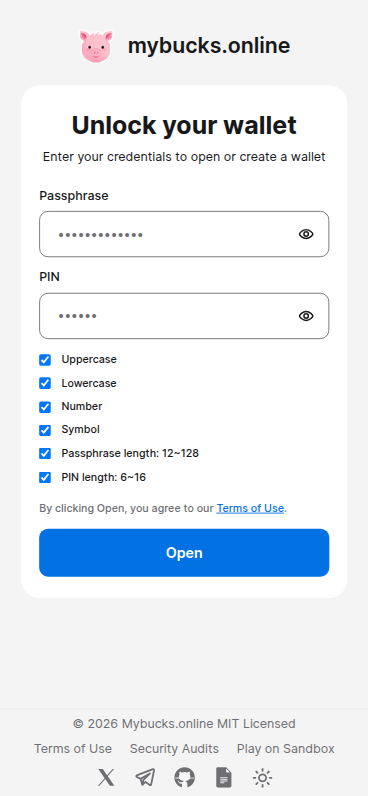
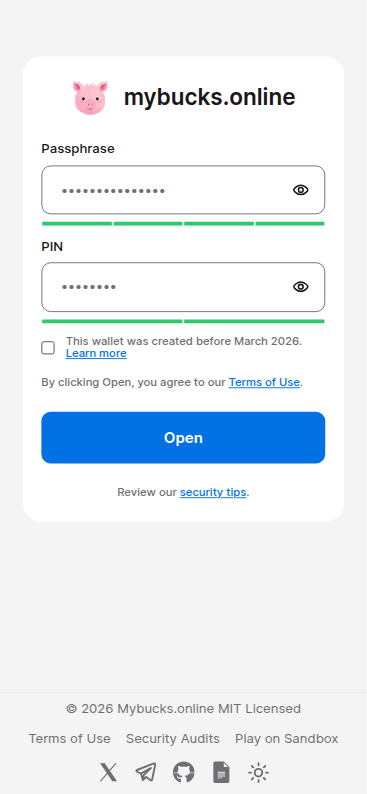
Add key-gen mode selector between legacy and default [critical] (#47)
* add legacy-mode select checkbox at unlock screen

* update @mybucks.online/core v2 ***

* update unlock screen to reflect legacy-flag

* add legacy indicator in Menu

* upgrade core into 2.1.0***

* update legacy-checkbox after parsing URL

* update vite.config to fix lint error

* update README

* update screenshot

* update README

Changed region(s): [[0.0899, 0.0302, 0.8992, 0.7254], [0.0899, 0.8766, 0.9292, 0.9975]]

diff --git a/src/pages/Signin/index.jsx b/src/pages/Signin/index.jsx
@@ -130,6 +130,31 @@ const ToggleButton = styled.button`
   }
 `;
 
+const LegacyWalletCheckboxWrapper = styled.div`
+  display: flex;
+  align-items: center;
+  gap: ${({ theme }) => theme.sizes.xs};
+  margin-bottom: ${({ theme }) => theme.sizes.base};
+
+  input[type="checkbox"] {
+    width: 1rem;
+    height: 1rem;
+    accent-color: ${({ theme }) => theme.colors.primary};
+    cursor: pointer;
+  }
+
+  label {
+    font-size: ${({ theme }) => theme.sizes.xs};
+    font-weight: ${({ theme }) => theme.weights.regular};
+    color: ${({ theme }) => theme.colors.gray200};
+    cursor: pointer;
+    user-select: none;
+  }
+
+  a {
+    font-size: inherit;
+  }
+`;
 
 const TermsNotice = styled.p`
   text-align: left;
@@ -159,17 +184,16 @@ const SignIn = () => {
   const { setup } = useContext(StoreContext);
 
   const [passphrase, setPassphrase] = useState(
-    import.meta.env.DEV ? TEST_PASSPHRASE : ""
+    import.meta.env.DEV ? TEST_PASSPHRASE : "",
   );
-  const [pin, setPin] = useState(
-    import.meta.env.DEV ? TEST_PIN : ""
-  );
+  const [pin, setPin] = useState(import.meta.env.DEV ? TEST_PIN : "");
   const [disabled, setDisabled] = useState(false);
   const [progress, setProgress] = useState(0);
   const [showPassphrase, setShowPassphrase] = useState(false);
   const [showPin, setShowPin] = useState(false);
   const [passphraseFocused, setPassphraseFocused] = useState(false);
   const [pinFocused, setPinFocused] = useState(false);
+  const [legacySelected, setLegacySelected] = useState(false);
 
   const passphraseStrength = useMemo(() => {
     if (!passphrase) return 0;
@@ -193,12 +217,12 @@ const SignIn = () => {
       !pin ||
       passphraseStrength < 3 ||
       pinStrength < 1,
-    [passphrase, pin, disabled, passphraseStrength, pinStrength]
+    [passphrase, pin, disabled, passphraseStrength, pinStrength],
   );
 
   const unknownFact = useMemo(
     () => UNKNOWN_FACTS[Math.floor(progress / 20)],
-    [progress]
+    [progress],
   );
 
   useEffect(() => {
@@ -211,7 +235,7 @@ const SignIn = () => {
       }
 
       // parse passphrase, PIN, network name from "secret" param
-      const [pphrase, pn, nn] = parseToken(secret);
+      const [pphrase, pn, nn, lgcy] = parseToken(secret);
       // clear URL params immediately so the secret is not left in the address bar
       clearQueryParams();
 
@@ -226,10 +250,14 @@ const SignIn = () => {
 
       // open wallet
       setDisabled(true);
-      const hash = await generateHash(pphrase, pn, (p) =>
-        setProgress(Math.floor(p * 100))
+      setLegacySelected(lgcy);
+      const hash = await generateHash(
+        pphrase,
+        pn,
+        (p) => setProgress(Math.floor(p * 100)),
+        lgcy,
       );
-      setup(pphrase, pn, hash, network, chainId);
+      setup(pphrase, pn, lgcy, hash, network, chainId);
       setDisabled(false);
     };
 
@@ -238,10 +266,13 @@ const SignIn = () => {
 
   const onSubmit = async () => {
     setDisabled(true);
-    const hash = await generateHash(passphrase, pin, (p) =>
-      setProgress(Math.floor(p * 100))
+    const hash = await generateHash(
+      passphrase,
+      pin,
+      (p) => setProgress(Math.floor(p * 100)),
+      legacySelected,
     );
-    setup(passphrase, pin, hash);
+    setup(passphrase, pin, legacySelected, hash);
     setDisabled(false);
   };
 
@@ -284,7 +315,9 @@ const SignIn = () => {
                 type="button"
                 disabled={disabled}
                 onClick={() => setShowPassphrase(!showPassphrase)}
-                aria-label={showPassphrase ? "Hide passphrase" : "Show passphrase"}
+                aria-label={
+                  showPassphrase ? "Hide passphrase" : "Show passphrase"
+                }
               >
                 <PasswordToggleIcon
                   show={showPassphrase}
@@ -318,14 +351,32 @@ const SignIn = () => {
                 onClick={() => setShowPin(!showPin)}
                 aria-label={showPin ? "Hide PIN" : "Show PIN"}
               >
-                <PasswordToggleIcon
-                  show={showPin}
-                  focused={pinFocused}
-                />
+                <PasswordToggleIcon show={showPin} focused={pinFocused} />
               </ToggleButton>
             </PasswordInputWrapper>
             <StrengthMeter level={pinStrength} maxLevel={2} />
           </div>
+
+          <LegacyWalletCheckboxWrapper>
+            <input
+              type="checkbox"
+              id="legacy-wallet"
+              checked={legacySelected}
+              onChange={(e) => setLegacySelected(e.target.checked)}
+              disabled={disabled}
+            />
+            <label htmlFor="legacy-wallet">
+              This wallet was created before March 2026.{" "}
+              <Link
+                href="https://docs.mybucks.online/concept/security-consideration/security-deep-dive"
+                target="_blank"
+                rel="noopener noreferrer"
+                onClick={(e) => e.stopPropagation()}
+              >
+                Learn more
+              </Link>
+            </label>
+          </LegacyWalletCheckboxWrapper>
 
           <TermsNotice>
             By clicking Open, you agree to our{" "}

diff --git a/src/pages/Menu/index.jsx b/src/pages/Menu/index.jsx
@@ -8,6 +8,7 @@ import styled from "styled-components";
 import BaseButton from "@mybucks/components/Button";
 import ConfirmPinModal from "@mybucks/components/ConfirmPinModal";
 import { Box as BaseBox, Container } from "@mybucks/components/Containers";
+import Link from "@mybucks/components/Link";
 import { BackButton } from "@mybucks/components/NavButtons";
 import { H3 } from "@mybucks/components/Texts";
 import { StoreContext } from "@mybucks/contexts/Store";
@@ -64,6 +65,18 @@ const TransferLinkWarning = styled.p`
   color: ${({ theme }) => theme.colors.gray200};
   line-height: 140%;
   margin: 0 0 ${({ theme }) => theme.sizes.x2l};
+
+  a {
+    font-size: inherit;
+  }
+`;
+
+const LegacyBadge = styled.span`
+  display: inline-block;
+  font-size: ${({ theme }) => theme.sizes.xs};
+  font-weight: ${({ theme }) => theme.weights.regular};
+  color: ${({ theme }) => theme.colors.warning};
+  margin-bottom: ${({ theme }) => theme.sizes.sm};
 `;
 
 const BACKUP_CREDENTIALS = 1;
@@ -73,7 +86,7 @@ const BACKUP_TRANSFER_LINK = 3;
 const Menu = () => {
   const [confirmPin, setConfirmPin] = useState(false);
   const [nextStep, setNextStep] = useState(0);
-  const { openMenu, account, passphrase, pin, network, chainId } =
+  const { openMenu, account, passphrase, pin, network, chainId, legacy } =
     useContext(StoreContext);
 
   const backupAddress = () => {
@@ -106,9 +119,9 @@ const Menu = () => {
       toast("Private key copied into clipboard.");
     } else if (nextStep === BACKUP_TRANSFER_LINK) {
       const networkName = findNetworkNameByChainId(network, chainId);
-      const link = generateToken(passphrase, pin, networkName);
+      const link = generateToken(passphrase, pin, networkName, legacy);
       copy(
-        window.location.origin + window.location.pathname + "#wallet=" + link
+        window.location.origin + window.location.pathname + "#wallet=" + link,
       );
       toast("Wallet link copied into clipboard.");
     }
@@ -123,6 +136,7 @@ const Menu = () => {
 
         <Box>
           <Title>Account Details</Title>
+          {legacy && <LegacyBadge>Legacy wallet</LegacyBadge>}
           <QRCodeWrapper>
             <QRCodeSVG value={network + ":" + account.address} />
           </QRCodeWrapper>
@@ -140,7 +154,14 @@ const Menu = () => {
             Transfer Link
           </Button>
           <TransferLinkWarning>
-          ⚠ Anyone with the transfer-link has full access to your funds!
+            ⚠ Anyone with the transfer-link has full access to your funds!{" "}
+            <Link
+              href="https://docs.mybucks.online/user-guide/security-notice"
+              target="_blank"
+              rel="noopener noreferrer"
+            >
+              Learn more
+            </Link>
           </TransferLinkWarning>
         </Box>
       </Container>

diff --git a/src/contexts/Store.jsx b/src/contexts/Store.jsx
@@ -14,6 +14,7 @@ export const StoreContext = createContext({
   passphrase: "",
   pin: "",
   hash: "",
+  legacy: false,
   setup: () => {},
   reset: () => {},
 
@@ -52,6 +53,7 @@ const StoreProvider = ({ children }) => {
   const [passphrase, setPassphrase] = useState("");
   const [pin, setPin] = useState("");
   const [hash, setHash] = useState("");
+  const [legacy, setLegacy] = useState(false);
 
   // theme related
   const [theme, setTheme] = useState(() => {
@@ -148,6 +150,7 @@ const StoreProvider = ({ children }) => {
     setPassphrase("");
     setPin("");
     setHash("");
+    setLegacy(false);
 
     setNetwork(DEFAULT_NETWORK);
     setChainId(DEFAULT_CHAIN_ID);
@@ -165,9 +168,10 @@ const StoreProvider = ({ children }) => {
     selectToken("");
   };
 
-  const setup = (pw, pc, hsh, nw, cid) => {
+  const setup = (pw, pc, lgcy, hsh, nw, cid) => {
     setPassphrase(pw);
     setPin(pc);
+    setLegacy(lgcy);
     setHash(hsh);
 
     if (nw) {
@@ -214,6 +218,7 @@ const StoreProvider = ({ children }) => {
         passphrase,
         pin,
         hash,
+        legacy,
         reset,
         setup,
         network,

diff --git a/vite.config.js b/vite.config.js
@@ -1,7 +1,11 @@
 import react from "@vitejs/plugin-react";
 import path from "path";
+import { fileURLToPath } from "url";
 import { defineConfig } from "vite";
 import { nodePolyfills } from "vite-plugin-node-polyfills";
+
+const __filename = fileURLToPath(import.meta.url);
+const __dirname = path.dirname(__filename);
 
 // https://vitejs.dev/config/
 export default defineConfig({

diff --git a/README.md b/README.md
@@ -60,19 +60,25 @@ import { ethers } from "ethers";
 import { scrypt } from "scrypt-js";
 
 const HASH_OPTIONS = {
-  N: 32768, // CPU/memory cost parameter, 2^15
+  N: 131072, // CPU/memory cost parameter, 2^17, OWASP recommendation
   r: 8, // block size parameter
-  p: 5, // parallelization parameter
+  p: 1, // parallelization parameter
   keyLen: 64,
 };
+const KDF_DOMAIN_SEPARATOR = "mybucks.online-core.generateHash.v2";
 
-// passphrase: at least 12 characters user input, lowercase, uppercase, digits, and special characters
-// PIN: at least 6 characters
+// passphrase: at least 12 characters user input, zxcvbn score >= 3
+// PIN: at least 6 characters, zxcvbn score >= 1
 async function generatePrivateKey(passphrase, pin) {
   const salt = `${passphrase.slice(-4)}${pin}`
 
   const passwordBuffer = Buffer.from(passphrase);
-  const saltBuffer = Buffer.from(salt);
+  const encoded = abi.encode(
+    ["string", "string", "string"],
+    [KDF_DOMAIN_SEPARATOR, passphrase, pin],
+  );
+  const saltHash = ethers.keccak256(encoded);
+  const saltBuffer = Buffer.from(saltHash.slice(2), "hex");
 
   const hashBuffer = await scrypt(
     passwordBuffer,
@@ -103,7 +109,7 @@ npm install @mybucks.online/core
 With mybucks.online, you can send cryptocurrency and even **wallet itself via a URL**. The recipient simply clicks the link to open the wallet and take full ownership.
 
 Try this link:  
-https://app.mybucks.online/#wallet=VWnsSGRGVtb0FjY291bnQ1JgIxMTIzMjQCb3B0aW1pc20=_wNovT
+https://app.mybucks.online/#wallet=VWnsSGRGVtb0FjY291bnQ1JgIxMTIzMjQCb3B0aW1pc20=_wNovT (legacy)
 
 This feature allows you to **create a one-time wallet** and put stablecoins or memecoins into it. You can **transfer full ownership as a gift without ever asking for a recipient's address**. These serve as a "starter" wallet for the recipients, who can then easily withdraw the funds into their own personal pockets or primary wallets.
 
@@ -113,6 +119,8 @@ This is a powerful tool for **bulk distribution** and **massive airdrops** to ma
 
 This project uses the following major dependencies:
 
+- **@mybucks.online/core**  
+  Core module of mybucks.online involving hashing, private-key generation, generate and parse transfer-link token.
 - **scrypt-js**  
   Implements the `scrypt` hash function. Please check the npm registry [here](https://www.npmjs.com/package/scrypt-js).
 - **ethers**  
